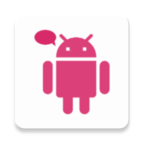
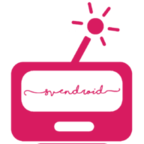
Upgrade to new style

diff --git a/src/app/services/record-service.ts b/src/app/services/record-service.ts
@@ -1,0 +1,96 @@
+import {Injectable} from 'angular2/core';
+import {Response} from 'angular2/http';
+import 'rxjs/add/operator/map';
+import 'rxjs/add/operator/catch';
+import {Observable} from 'rxjs/Observable';
+
+import {Record} from '../models/record';
+import {HttpService} from './http-service';
+import {RecordProject} from '../models/record-project';
+
+@Injectable()
+export class RecordService {
+  private url:string = 'api/records/';
+  private http:HttpService;
+
+  constructor(private http: HttpService) {
+    this.http = http;
+  }
+
+  /**
+   * Get all records
+   * @returns {Observable<R>}
+     */
+  public getRecords(): any {
+    return this.http.get(this.url)
+      .map((res) => <Record[]> res.json())
+      .catch(this.handleError);
+  }
+
+  /**
+   * Get record by id
+   * @param id
+   * @returns {Observable<R>}
+     */
+  public getRecordById(id: string): any {
+    return this.http.get(this.url + id)
+      .map((res) => <Record> res.json())
+      .catch(this.handleError);
+  }
+
+  /**
+   * Create a record
+   * @param record
+   * @returns {Observable<R>}
+     */
+  public createRecord(record: Record): any {
+    return this.http.post(this.url, record)
+      .map((res) => <Record> res.json())
+      .catch(this.handleError);
+  }
+
+  /**
+   * Update a record
+   * @param record
+   * @returns {Observable<R>}
+     */
+  public updateRecord(record: Record): any {
+    return this.http.put(this.url, record)
+      .map((res) => <Record> res.json())
+      .catch(this.handleError);
+  }
+
+  /**
+   * Delete a record
+   * @param id
+   * @returns {Observable<R>}
+     */
+  public deleteRecord(id: string): any {
+    return this.http.delete(this.url + id)
+      .map((res) => <Record> res.json())
+      .catch(this.handleError);
+  }
+
+  /**
+   * Handle request errors
+   * @param error
+   * @returns {Observable<T>}
+     */
+  private handleError(error: Response) {
+    console.error(error);
+    return Observable.throw(error.json().error || 'RecordService: Server error');
+  }
+
+  /**
+   * Get all records
+   * @returns {Observable<R>}
+   */
+  public getRecordsByProject(projectId: string): any {
+    return this.http.get(this.url + 'project/' + projectId)
+      .map((res) => <RecordProject[]> res.json())
+      .catch(this.handleError);
+  }
+
+}
+
+

diff --git a/src/app/components/project-detail/project-detail.ts b/src/app/components/project-detail/project-detail.ts
@@ -17,18 +17,21 @@ import {TriggerService} from '../../services/trigger-service';
 import {LoadingSpinner} from '../common/loading-spinner';
 import {ActionService} from '../../services/action-service';
 import {UserModal} from '../user-modal/user-modal';
+import {RecordService} from '../../services/record-service';
+import {RecordProject} from '../../models/record-project';
 
 @Component({
   selector: 'project-detail',
   templateUrl: 'app/components/project-detail/project-detail.html',
   styleUrls: ['app/components/project-detail/project-detail.css'],
-  providers: [ProjectService, MeasureService, TriggerService, ActionService],
+  providers: [ProjectService, MeasureService, TriggerService, ActionService, RecordService],
   directives: [ROUTER_DIRECTIVES, MaterializeDirective, MeasureModal, TriggerModal, LoadingSpinner, UserModal],
   pipes: [TranslatePipe]
 })
 
 export class ProjectDetail {
   public project:Project;
+  public statistics:[RecordProject];
   public showLoadingSpinner:boolean = true;
   public newMeasure:Measure;
   public tempMeasure:Measure;
@@ -40,7 +43,8 @@ export class ProjectDetail {
               private _triggerService:TriggerService,
               private _router:Router,
               private _sharedService:SharedService,
-              private _actionService:ActionService) {
+              private _actionService:ActionService,
+              private _recordService:RecordService) {
   }
 
   ngOnInit() {
@@ -65,8 +69,22 @@ export class ProjectDetail {
         this._sharedService.notify<Project>('currentProject', this.project);
       }
     );
+
+    this._recordService.getRecordsByProject(this._routeParams.get('projectId')).subscribe(
+      statistics => {
+        this.statistics = statistics;
+      },
+      error =>  Materialize.toast(error, 4000),
+      () => {
+        //this.showLoadingSpinner = false;
+      }
+    );
   }
 
+  public getDate(date:string):Date {
+    return new Date(date);
+  }
+  
   public getDecodedTimeSpan(trigger){
     return this._triggerService.decodeTimeSpan(trigger);
   }

diff --git a/src/app/sample-manager-app.html b/src/app/sample-manager-app.html
@@ -4,7 +4,7 @@
     <!--<div class="brand"><img src="../assets/images/icon_inverted.png" height="45px" /></div>-->
     <div class="nav-wrapper">
       <divs class="col s12">
-        <a href="#home" class="breadcrumb"><i class="material-icons left pink-text text-darken-1">android</i> Svendroid</a>
+        <a href="#home" class="breadcrumb"><img src="../../../assets/images/logo_heading.png" style="position: absolute; top: 10px" height="35px"/>&nbsp;&nbsp;&nbsp;&nbsp;&nbsp;&nbsp;</a>
         <a *ngIf="isActive('Projekte')" href="#/projekte" class="breadcrumb">Projekte</a>
         <a *ngIf="isActive('Projekte') && currentProject" href="#/projekte/{{currentProject ? currentProject._id : '?'}}" class="breadcrumb extended">{{currentProject ? currentProject.name : '?'}}</a>
         <a *ngIf="isActive('Projekte') && currentProject && currentMeasure" class="breadcrumb extended">{{currentMeasure.alias | slice:0:15}}{{currentMeasure.alias.length > 15 ? '...' : ''}}</a>
@@ -13,7 +13,7 @@
     </div>
 
     <a materialize="sideNav" [materializeParams]="[{edge:'left', menuWidth: 65, closeOnClick: false}]"
-       href="#" data-activates="slide-out" class="button-collapse" style="position: absolute;top: 0px;"><i class="material-icons">reorder</i></a>
+       href="#" data-activates="slide-out" class="button-collapse" style="position: absolute;top: 0px;"><i class="material-icons">view_headline</i></a>
 
     <button materialize="leanModal"
             [materializeParams]="params"

diff --git a/src/app/components/project-detail/project-detail.html b/src/app/components/project-detail/project-detail.html
@@ -299,8 +299,40 @@
   </div>
 
   <!-- Statistiken -->
-  <div id="statistics" class="col s12">
-    <div class="help-image-statistics-wrapper">
+  <div id="statistics" class="col s12" >
+    <div *ngFor="#statistic of statistics" class="grey-text">
+      <h3 class="grey-text text-darken-1">{{statistic.alias}}</h3>
+      <table>
+        <thead>
+        <tr>
+
+          <th data-field="name" class="">Zeit</th>
+          <th data-field="price" class="">User</th>
+          <th data-field="price" class="">Antwort</th>
+        </tr>
+        </thead>
+
+        <tbody>
+
+        <tr *ngFor="#record of statistic.records">
+
+          <td class="">
+            {{getDate(record.created) | date:'medium'}}
+          </td>
+          <td class="">
+            {{record.user.email}}
+          </td>
+          <td>
+            {{record.value}}
+          </td>
+
+        </tr>
+
+        </tbody>
+      </table>
+    </div>
+
+    <div *ngIf="statistics && statistics.length === 0" class="help-image-statistics-wrapper">
       <img src="../../../assets/images/nothing.png" class="help-image-statistics" />
     </div>
   </div>

diff --git a/src/app/components/home/home.html b/src/app/components/home/home.html
@@ -15,7 +15,7 @@
   </p>
   <div class="svendroid-speaking">
     <img src="../../../assets/images/line.png" style="vertical-align: top; " height="50px" />
-    <i class="material-icons large pink-text text-darken-1" style="font-size: 200px">android</i>
+    <img src="../../../assets/images/logo.png" style="vertical-align: top; " height="250px" style="margin-top: -25px" />
   </div>
 </div>
 <br>

diff --git a/src/style.css b/src/style.css
@@ -1,3 +1,19 @@
+::-webkit-scrollbar {
+  width: 4px;
+  height: 4px;
+  border-radius: 2px;
+}
+::-webkit-scrollbar-corner {
+  background-color: transparent;
+}
+::-webkit-scrollbar-thumb {
+  background-color: dimgray;
+  border-radius: 2px;
+}
+::-webkit-scrollbar-track {
+  background-color: rgba(130, 130, 130, 0.3);
+}
+
 h1, h2, h3, h4, h5 {
   color: #1d1d1d;
 }

diff --git a/src/app/models/record.ts b/src/app/models/record.ts
@@ -1,14 +1,10 @@
 import {User} from './user';
-import {Trigger} from "./trigger";
-import {Measure} from './measure';
 
 export class Record {
   public _id:string;
   public created:string;
   public value:string;
   public location:[number];
-  public answerDuration:number;
-  public measure:Measure;
   public user:User;
 
   constructor() {

diff --git a/src/app/models/record-project.ts b/src/app/models/record-project.ts
@@ -1,0 +1,11 @@
+import {Record} from './record';
+
+export class RecordProject {
+  public _id:string;
+  public alias:string;
+  public records:[Record];
+
+
+  constructor() {
+  }
+}
